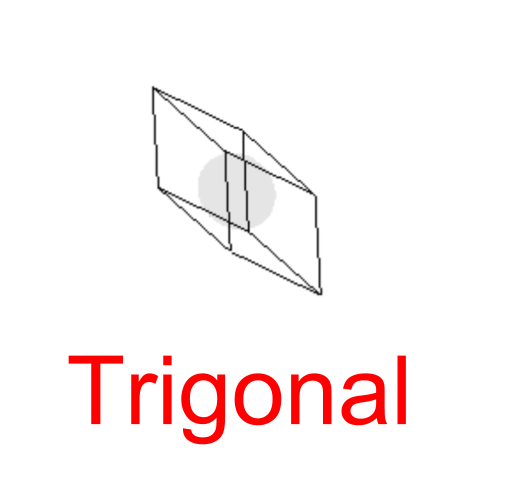
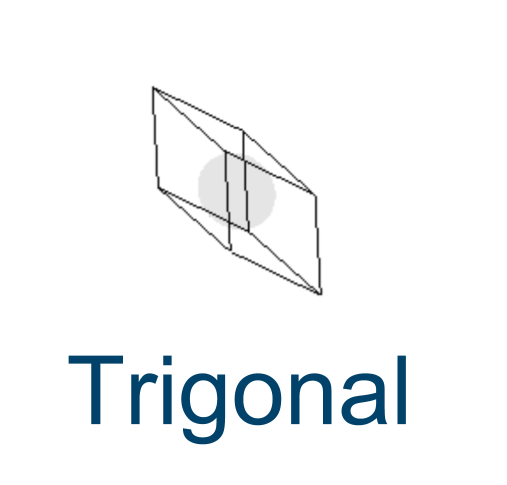
I updated some of the colors and added images for the labels.

Changed region(s): [[0.2367, 0.7113, 0.7988, 0.9278], [0.1183, 0.7113, 0.2367, 0.8969]]

diff --git a/index.html b/index.html
@@ -15,17 +15,17 @@
   <link rel="import" href="/path/to/imports/stuff.html">
     </head>
 
-    <body>
-        <!-- <div class="WebContainer">
+    <body bgcolor="#FFFFFF">
+         <div class="WebContainer">
         <div class = "container">
                 <div class ="headerContainer"> 
             <div class="header">
-            <h1>Optical Crystallography</h1>
+                <h1><font face="Arial" color="#FFB500">Optical Crystallography</font></h1>
         </div>
             
-            </div> -->
+            </div> 
 			
-		
+	
 			
         <div id="my_centered_buttons">
             <button class="crystalStructure" id="cubicPrism">
@@ -49,7 +49,7 @@
                  <link rel="stylesheet" type="text/css" href="style/crystal.css">
             <link rel="stylesheet" type="text/css" href="style/onOffSwitch.css">
 -->
-        <div class="onOffSwitchLabel"> Enable Cross Sections </div>
+        <div class="onOffSwitchLabel"> </div>
         <div class="onoffswitch">
             <input type="checkbox" name="onoffswitch" class="onoffswitch-checkbox" id="myonoffswitch" checked>
             <label class="onoffswitch-label" for="myonoffswitch">
@@ -57,7 +57,7 @@
                 <span class="onoffswitch-switch"></span>
             </label>
             </div>
-            <div id="crystalScreen" class="crystalScreenClass"> 
+           
                 
                   <div class="crystalLabelClass">Crystal <p id="crystalLabelDivId"></p>
             </div>
@@ -67,9 +67,22 @@
                 
                 <div class="crossSectionLabelClass"> <p id="crossSectionLabelDivId"></p>
             </div>
+                
+             
+                <img class="crystalLabel" id="crystalLabelId" src="images/crystalLabel.png">
+	
+           
+                <img class="indicatrixLabel" id="indicatrixLabelId" src="images/indicatrixLabel.png">
+            
+            
+               <img class="crossSectionLabel" id="crossSectionLabelId" src="images/crossSectionLabel.png">
 
+       
+            
+                <img class="enableCrossSectionsLabel" id="enableCrossSectionsLabelId" src="images/EnableCrossSectionsLabel.png">
+            
         <script src="app/crystal.js"></script>
-                </div>
+               
             </div>
             </div>
     </body>

diff --git a/style/crystal.css b/style/crystal.css
@@ -3,7 +3,6 @@
 .WebContainer{
     width: 100%;
     height: 35%;
-    fill: #DDDDDD;
 }
 
 /*
@@ -17,7 +16,7 @@ html, body {
  margin: 0;
 }
 
-/*.header {
+.header {
     position: absolute;
     width: 100%; 
     display: flex;
@@ -28,9 +27,9 @@ html, body {
     top: 1px;
     
     overflow: hidden; 
-    background-color: #ff0000;
+    background-color: #01426A;
     padding: 0px;*
-} */
+} 
 
 #my_centered_buttons {
     display: flex;
@@ -38,7 +37,7 @@ html, body {
 }
 
 .crystalStructure {
-    border: solid;
+    border:  solid #01426A;
     border-width: thin;
     display: inline-block;
     margin: 100px 14px;
@@ -46,20 +45,23 @@ html, body {
 
 .crystalStructure.selected {
     border-width: medium; 
-    border-color: #4090FF; 
+    border-color: #FFB500; 
 }
 
+/*
 .crystalScreen{
-     left: 200px; 
-    width: 100%; 
+    left: 200px; 
+    width:20%; 
     display: flex;
-   margin:300px 50px;   
 }
+*/
+
 
 /*
   div.crystalLabelClass {
     left:  290px; 
 } 
+*/
 
 div.indicatrixLabelClass {
     left:  560px; 
@@ -69,9 +71,77 @@ div.crossSectionLabelClass {
     left:  700px; 
 }
 
+/*
 div.crossSectionLabelClass, div.indicatrixLabelClass, div.crystalLabelClass{
     position: absolute;
     width: 200px;
     height: 15px; 
-}*/
+}
+*/
+
+img.crystalLabel {
+    position: absolute;
+    left: "100px";
+    height: 13%;
+    width: 22%;
+    top: 270px;
+    left:200px;
+    width: 13%;
+    height: 13%;
+    position: fixed;
+
+}
+
+img.crossSectionLabel {
+    position: absolute;
+    left: "100px";
+    height: 13%;
+    width: 22%;
+    top: 270px;
+    left:720px;
+    width: 13%;
+    height: 13%;
+    position: fixed;
+}
+
+/*
+img.crossSectionLabelCover {
+    position: absolute;
+    left: "100px";
+    height: 13%;
+    width: 22%;
+    top: 270px;
+    left:720px;
+    width: 13%;
+    height: 13%;
+    position: fixed;
+}
+*/
+
+img.indicatrixLabel {
+    position: absolute;
+    left: "100px";
+    height: 13%;
+    width: 22%;
+    top: 270px;
+    left:480px;
+    width: 13%;
+    height: 13%;
+    position: fixed;
+    
+}
+
+img.enableCrossSectionsLabel {
+    position: absolute;
+    left: "100px";
+    top: 60px;
+    left:35px;
+    width: 10%;
+    height: 10%;
+    position: fixed;
+}
+
+
+
+
 

diff --git a/style/onOffSwitch.css b/style/onOffSwitch.css
@@ -1,7 +1,9 @@
 .onOffSwitchLabel{
     position: absolute; 
-    top: 90px;
+    top: 200px;
     left: 30px; 
+    height: 13%;
+    width: 22%;
 }
 
 
@@ -23,8 +25,10 @@
     display: block;
     overflow: hidden;
     cursor: pointer;
-    border: 2px solid #999999;
+/*
+    border: 2px solid #5B6770;
     border-radius: 20px;
+*/
 }
 
 .onoffswitch-inner {
@@ -52,16 +56,26 @@
 .onoffswitch-inner:before {
     content: "ON";
     padding-left: 10px;
-    background-color: #4090FF;
-    color: #FFFFFF;
+    background-color: #01426A;
+    color: #FFB500;
+    border: 2px solid #FB6770;
+    border-radius: 20px;
+/*
+    border-color: #"FFB500";
+    border-radius: 20px;
+*/
 }
 
 .onoffswitch-inner:after {
     content: "OFF";
     padding-right: 10px;
     background-color: #EEEEEE;
-    color: #999999;
+    color: #5B6770;
     text-align: right;
+    border: 2px solid #5B6770;
+    border-radius: 20px;
+    
+    
 }
 
 .onoffswitch-switch {
@@ -73,9 +87,12 @@
     top: 0;
     bottom: 0;
     right: 56px;
-    border: 2px solid #999999;
+    border: 2px solid #5B6770;
     border-radius: 20px;
     transition: all 0.3s ease-in 0s;
+    
+    overflow: hidden; 
+    
 }
 
 .onoffswitch-checkbox:checked+.onoffswitch-label .onoffswitch-inner {

diff --git a/app/crystal.js b/app/crystal.js
@@ -6,7 +6,7 @@ var three = THREE;
 
 //--------------------Camera Settings--------------------//
 var scene = new three.Scene();
-scene.background = new THREE.Color( 0xEEEEEE );
+scene.background = new THREE.Color( 0xFFFFFF );
 var viewSize = 120;
 var aspect=window.innerWidth*2/window.innerHeight;
 var camera = new THREE.OrthographicCamera(.5 * viewSize * aspect / - 2, .5 * viewSize * aspect / 2, viewSize / 2, viewSize / - 2 , -1000, 1000);
@@ -188,7 +188,7 @@ var crystalMaterial = new three.MeshFaceMaterial([
 
 
 var ellipsoidMaterial = new THREE.MeshBasicMaterial({//ellipsoid semi-transparent grey material
-    color:0x4090FF, transparent:true, opacity:0.4, side: THREE.BackSide
+   color:0x000000, transparent:true, opacity:0.1, side: THREE.DoubleSide
 });
 
 var crossSectionMaterial = new THREE.MeshBasicMaterial({//cross section dark grey material
